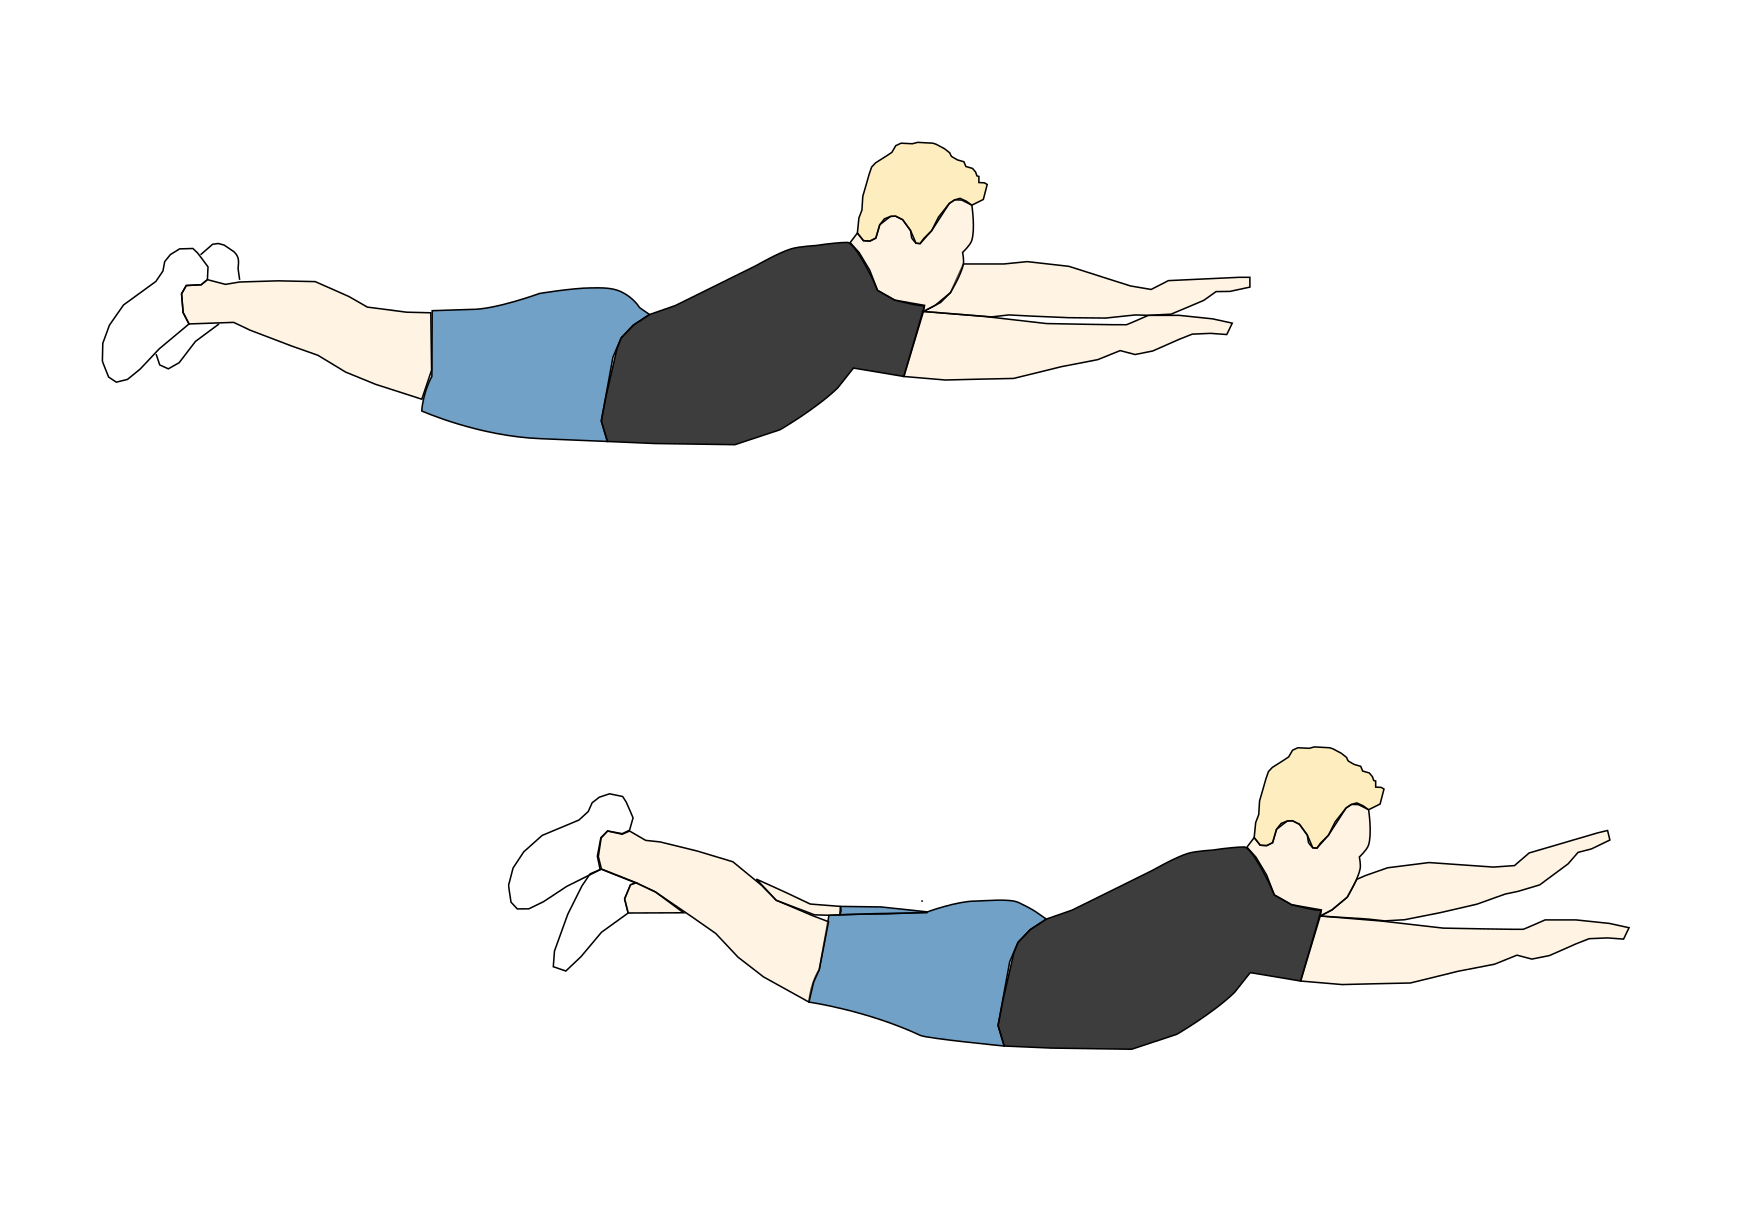
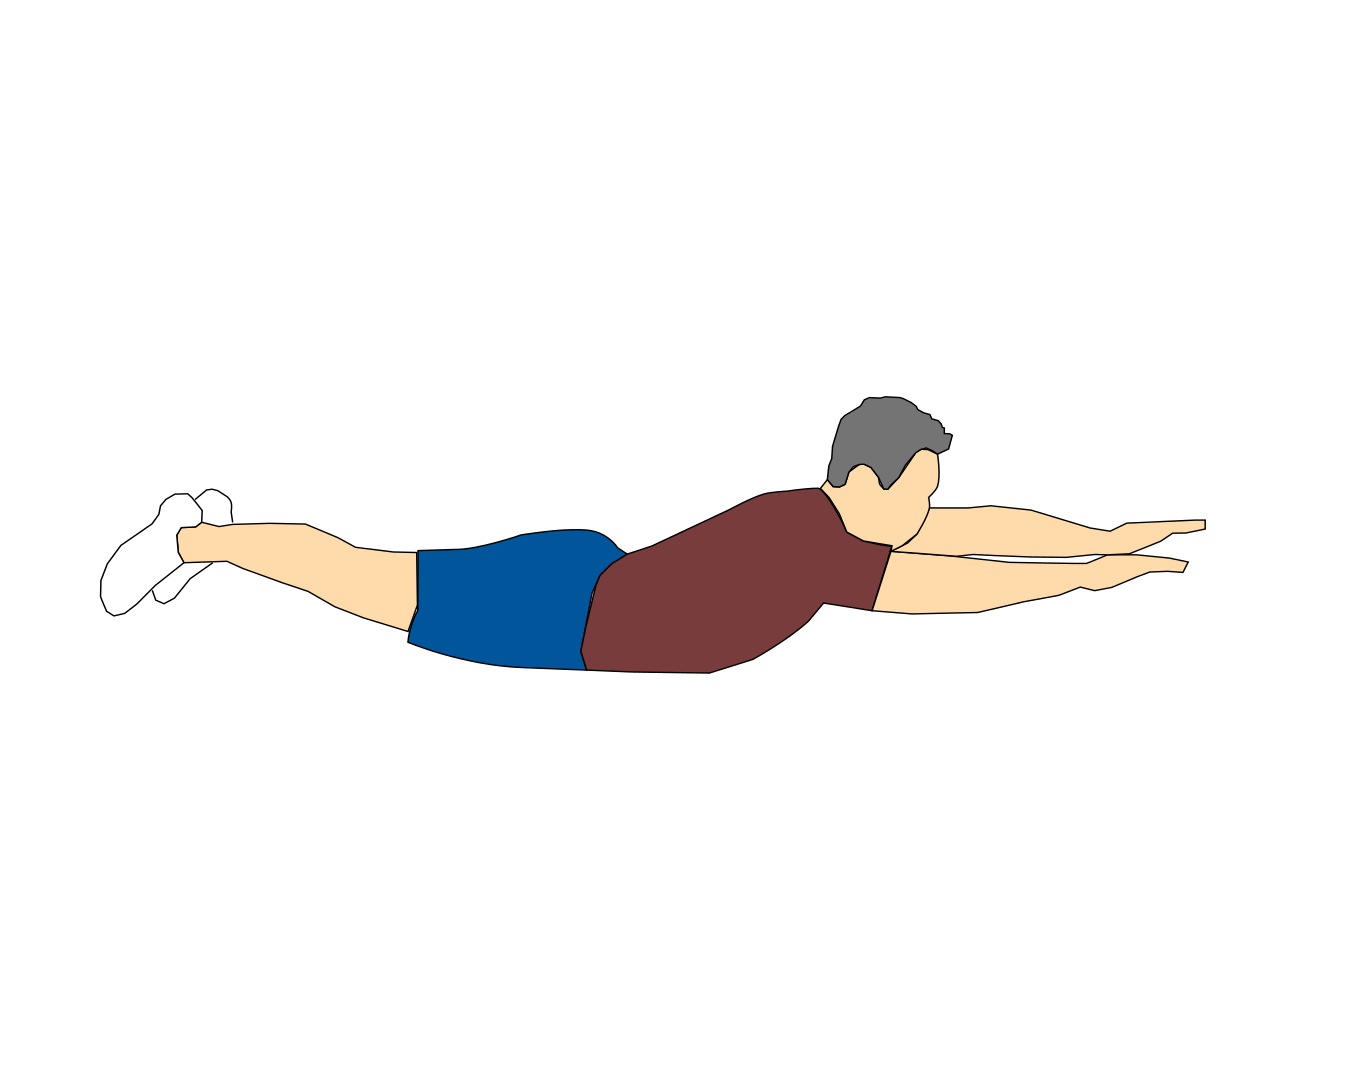
superwoman exercise

Changed region(s): [[0.1244, 0.3667, 0.9333, 0.8556], [0.0933, 0.0917, 0.7156, 0.3667], [0.3111, 0.7639, 0.3422, 0.7944]]

diff --git a/WorkoutModule/Models/DefinitionFactory.cs b/WorkoutModule/Models/DefinitionFactory.cs
@@ -500,14 +500,14 @@ namespace WorkoutModule.Models
                 Description = "Effektive übung für die Beinachse und die seitliche Rumpfmuskulatur",
                 Execution = new List<string>()
                 {
-                    "Lege dich seitlich auf den linken Arm, Ellenbogen unter der Schulter!",
-                    "Hebe deine Körpermitte vom Boden ab und stütze dich dabei auf Ellenbogen und Fußkante!",
+                    "Lege dich flach auf den Bauch, Arme nach oben gestreckt. Der ganze Körper bildet eine Linie.",
+                    "Konzentriere das Gewicht auf deine Bauchpartie. Hebe Arme und Beine leicht vom Boden ab.",
                     "Achte darauf, dass der Körper eine gerade Linie bildet!",
-                    "Wechsle anschließend die Seite!"
+                    "Arbeite bewusst mit deiner Gesäß- und Bauchmuskulatur, während du die Position hältst!"
                 },
                 Duration = 30,
                 ImageFile = "superwoman_base.png",
-                SwitchLeftRight = true,
+                SwitchLeftRight = false,
                 SwitchTime = 5,
                 Level = Level.Easy
             });
@@ -519,15 +519,14 @@ namespace WorkoutModule.Models
                 Description = "Effektive übung für die Beinachse und die seitliche Rumpfmuskulatur",
                 Execution = new List<string>()
                 {
-                    "Lege dich seitlich auf den linken Arm, Ellenbogen unter der Schulter!",
-                    "Hebe deine Körpermitte vom Boden ab und stütze dich dabei auf Ellenbogen und Fußkante!",
-                    "Achte darauf, dass der Körper eine gerade Linie bildet!",
-                    "Senke und hebe deine Hüfte kontrolliert nach unten und oben! Halte die Grundposition stabil!",
-                    "Wechsle anschließend die Seite!"
+                    "Lege dich flach auf den Bauch, Arme nach oben gestreckt.",
+                    "Konzentriere das Gewicht auf deine Bauchpartie. Hebe Arme und Beine leicht vom Boden ab.",
+                    "Arbeite bewusst mit deiner Gesäß- und Bauchmuskulatur! Der ganze Körper bildet eine Linie!",
+                    "Hebe wechselseit diagonal jeweils einen Arm und ein Bein etwas höher."
                 },
-                Duration = 60,
-                ImageFile = "superwoman_base.png",
-                SwitchLeftRight = true,
+                Duration = 30,
+                ImageFile = "superwoman_base.paddle",
+                SwitchLeftRight = false,
                 SwitchTime = 5,
                 Level = Level.Moderate
             });
@@ -539,16 +538,14 @@ namespace WorkoutModule.Models
                 Description = "Effektive übung für die Beinachse und die seitliche Rumpfmuskulatur",
                 Execution = new List<string>()
                 {
-                    "Lege dich seitlich auf den linken Arm, Ellenbogen unter der Schulter!",
-                    "Hebe deine Körpermitte vom Boden ab und stütze dich dabei auf Ellenbogen und Fußkante!",
-                    "Achte darauf, dass der Körper eine gerade Linie bildet!",
-                    "Hebe das oberes Bein vom Boden ab und halte es oben.",
-                    "Wechsle anschließend die Seite!"
-
+                    "Lege dich flach auf den Bauch, Arme nach oben gestreckt.",
+                    "Konzentriere das Gewicht auf deine Bauchpartie. Hebe Arme und Beine leicht vom Boden ab.",
+                    "Arbeite bewusst mit deiner Gesäß- und Bauchmuskulatur! Der ganze Körper bildet eine Linie!",
+                    "Hebe wechselseit diagonal jeweils einen Arm und ein Bein etwas höher."
                 },
-                Duration = 30,
-                ImageFile = "superwoman_base.png",
-                SwitchLeftRight = true,
+                Duration = 60,
+                ImageFile = "superwoman_paddle.gif",
+                SwitchLeftRight = false,
                 Level = Level.Advanced
             });
 
@@ -559,16 +556,14 @@ namespace WorkoutModule.Models
                 Description = "Effektive übung für die Beinachse und die seitliche Rumpfmuskulatur",
                 Execution = new List<string>()
                 {
-                    "Lege dich seitlich auf den linken Arm, Ellenbogen unter der Schulter!",
-                    "Hebe deine Körpermitte vom Boden ab und stütze dich dabei auf Ellenbogen und Fußkante!",
-                    "Achte darauf, dass der Körper eine gerade Linie bildet!",
-                    "Hebe das oberes Bein vom Boden ab und halte es oben.",
-                    "Senke und hebe deine Hüfte kontrolliert nach unten und oben! Halte die Grundposition stabil!",
-                    "Wechsle anschließend die Seite!"
+                    "Lege dich flach auf den Bauch, Arme nach oben gestreckt.",
+                    "Konzentriere das Gewicht auf deine Bauchpartie. Hebe Arme und Beine leicht vom Boden ab.",
+                    "Arbeite bewusst mit deiner Gesäß- und Bauchmuskulatur! Der ganze Körper bildet eine Linie!",
+                    "Hebe wechselseit diagonal jeweils einen Arm und ein Bein etwas höher."
                 },
-                Duration = 60,
-                ImageFile = "superwoman_base.png",
-                SwitchLeftRight = true,
+                Duration = 90,
+                ImageFile = "superwoman_paddle.gif",
+                SwitchLeftRight = false,
                 Level = Level.Epic
             });
 
